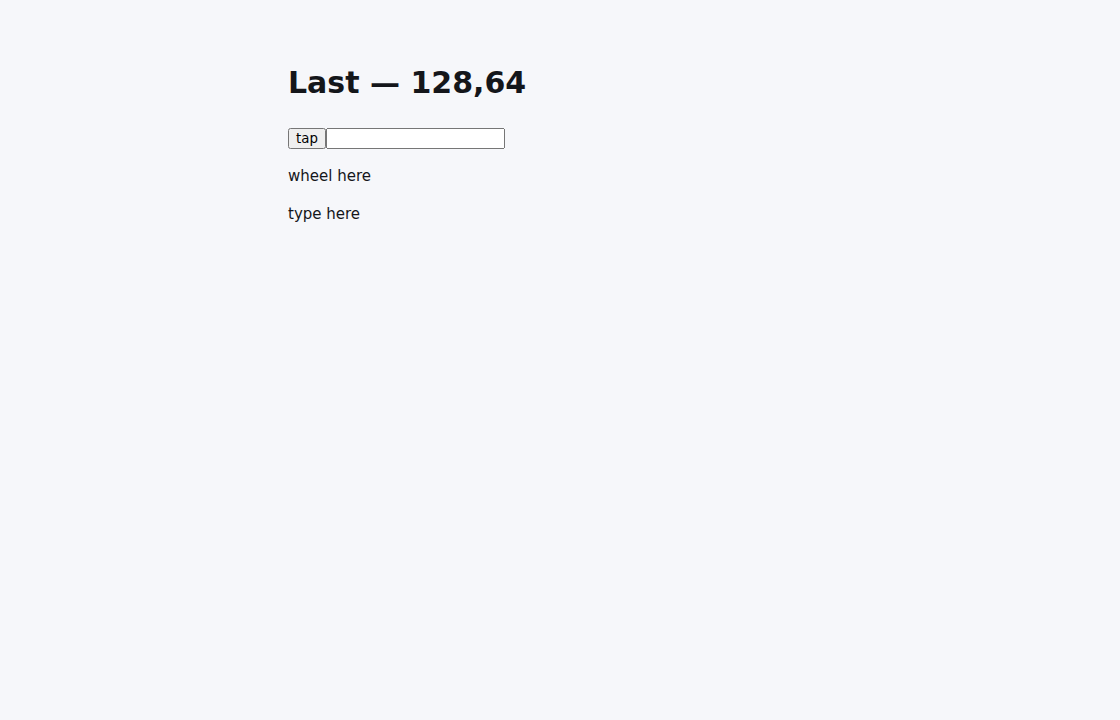
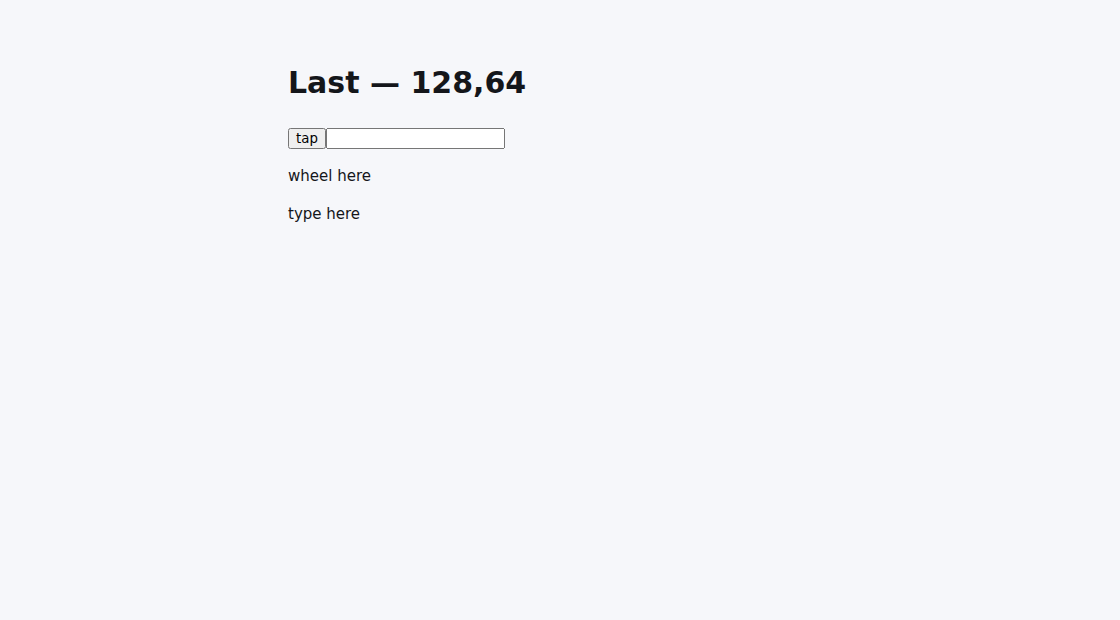
The captures were cropped, and the ones he saw were the old ones
Two separate faults, and the second is why the first was invisible to me.

**A viewport screenshot crops.** `--screenshot` takes the window, so every component taller than the window
lost its bottom — and there is no full-page flag on the command line. The page reports its own
`scrollHeight` into its `<title>` now, a first pass reads it, and the shot is taken at that height. Cart needs
644px; the rest fit the 620px floor, which exists so the strip does not jump between a 200px slide and a 900px
one.

**And the check that proves it is not a dimension comparison.** Heights can agree and the picture still be cut,
so `bottomIsClear` decodes each PNG and requires its last twelve rows to be one flat colour — the page keeps
padding below the component, so ink down there means something was lost. That asks the picture rather than the
arithmetic.

**Then: image URLs carried no version.** A PNG keeps its filename when it is retaken, so Andre was looking at
the previous 720×470 captures, which genuinely were cropped, while the new ones sat on the server. My
cache-busting had covered stylesheets and scripts and stopped there — so the guard now covers `_includes` as
well as `_layouts`, and `.png` and `.svg` as well as `.css` and `.js`.

It found two more the moment I widened it: the landing page's own showcase screenshot, and the Burxt lockup in
the bar. Both are the same class — **an artefact whose URL does not change when its content does** — and both
[…]

Changed region(s): [[0.25, 0.1839, 0.4375, 0.3065], [0.25, 0.0919, 0.4688, 0.1532], [0.25, 0.3371, 0.3125, 0.3677]]

diff --git a/docs/_includes/gallery.html b/docs/_includes/gallery.html
@@ -32,7 +32,12 @@
   <div class="shelf-track" data-shelf-track tabindex="0">
   <section class="shelf-slide" id="shelf-todos" aria-label="Todos, 1 of 16">
     <figure class="shelf-shot">
-      <img src="{{ site.baseurl }}/assets/gallery/todos.png" width="1120" height="720"
+      <!-- Versioned like the stylesheets, and for the same reason: a PNG keeps its filename when it is
+           retaken, so a reader holds the PREVIOUS capture until the cache expires. Andre reported the
+           captures as cropped after they had been retaken — the ones he was looking at were the old
+           720x470 shots, which genuinely were cut off. -->
+      <img src="{{ site.baseurl }}/assets/gallery/todos.png?v={{ site.time | date: '%s' }}"
+           width="1120" height="620"
            loading="eager" alt="Todos.sbmx running in a browser">
     </figure>
     <figure class="shelf-code">
@@ -70,7 +75,12 @@
   </section>
   <section class="shelf-slide" id="shelf-form" aria-label="Form, 2 of 16">
     <figure class="shelf-shot">
-      <img src="{{ site.baseurl }}/assets/gallery/form.png" width="1120" height="720"
+      <!-- Versioned like the stylesheets, and for the same reason: a PNG keeps its filename when it is
+           retaken, so a reader holds the PREVIOUS capture until the cache expires. Andre reported the
+           captures as cropped after they had been retaken — the ones he was looking at were the old
+           720x470 shots, which genuinely were cut off. -->
+      <img src="{{ site.baseurl }}/assets/gallery/form.png?v={{ site.time | date: '%s' }}"
+           width="1120" height="620"
            loading="eager" alt="Form.sbmx running in a browser">
     </figure>
     <figure class="shelf-code">
@@ -106,7 +116,12 @@
   </section>
   <section class="shelf-slide" id="shelf-hero" aria-label="Hero, 3 of 16">
     <figure class="shelf-shot">
-      <img src="{{ site.baseurl }}/assets/gallery/hero.png" width="1120" height="720"
+      <!-- Versioned like the stylesheets, and for the same reason: a PNG keeps its filename when it is
+           retaken, so a reader holds the PREVIOUS capture until the cache expires. Andre reported the
+           captures as cropped after they had been retaken — the ones he was looking at were the old
+           720x470 shots, which genuinely were cut off. -->
+      <img src="{{ site.baseurl }}/assets/gallery/hero.png?v={{ site.time | date: '%s' }}"
+           width="1120" height="620"
            loading="lazy" alt="Hero.sbmx running in a browser">
     </figure>
     <figure class="shelf-code">
@@ -131,7 +146,12 @@
   </section>
   <section class="shelf-slide" id="shelf-showcase" aria-label="Showcase, 4 of 16">
     <figure class="shelf-shot">
-      <img src="{{ site.baseurl }}/assets/gallery/showcase.png" width="1120" height="720"
+      <!-- Versioned like the stylesheets, and for the same reason: a PNG keeps its filename when it is
+           retaken, so a reader holds the PREVIOUS capture until the cache expires. Andre reported the
+           captures as cropped after they had been retaken — the ones he was looking at were the old
+           720x470 shots, which genuinely were cut off. -->
+      <img src="{{ site.baseurl }}/assets/gallery/showcase.png?v={{ site.time | date: '%s' }}"
+           width="1120" height="620"
            loading="lazy" alt="Showcase.sbmx running in a browser">
     </figure>
     <figure class="shelf-code">
@@ -229,7 +249,12 @@ Clear done
   </section>
   <section class="shelf-slide" id="shelf-served" aria-label="Served, 5 of 16">
     <figure class="shelf-shot">
-      <img src="{{ site.baseurl }}/assets/gallery/served.png" width="1120" height="720"
+      <!-- Versioned like the stylesheets, and for the same reason: a PNG keeps its filename when it is
+           retaken, so a reader holds the PREVIOUS capture until the cache expires. Andre reported the
+           captures as cropped after they had been retaken — the ones he was looking at were the old
+           720x470 shots, which genuinely were cut off. -->
+      <img src="{{ site.baseurl }}/assets/gallery/served.png?v={{ site.time | date: '%s' }}"
+           width="1120" height="620"
            loading="lazy" alt="Served.sbmx running in a browser">
     </figure>
     <figure class="shelf-code">
@@ -254,7 +279,12 @@ clear
   </section>
   <section class="shelf-slide" id="shelf-feed" aria-label="Feed, 6 of 16">
     <figure class="shelf-shot">
-      <img src="{{ site.baseurl }}/assets/gallery/feed.png" width="1120" height="720"
+      <!-- Versioned like the stylesheets, and for the same reason: a PNG keeps its filename when it is
+           retaken, so a reader holds the PREVIOUS capture until the cache expires. Andre reported the
+           captures as cropped after they had been retaken — the ones he was looking at were the old
+           720x470 shots, which genuinely were cut off. -->
+      <img src="{{ site.baseurl }}/assets/gallery/feed.png?v={{ site.time | date: '%s' }}"
+           width="1120" height="620"
            loading="lazy" alt="Feed.sbmx running in a browser">
     </figure>
     <figure class="shelf-code">
@@ -279,7 +309,12 @@ toggle polling
   </section>
   <section class="shelf-slide" id="shelf-poster" aria-label="Poster, 7 of 16">
     <figure class="shelf-shot">
-      <img src="{{ site.baseurl }}/assets/gallery/poster.png" width="1120" height="720"
+      <!-- Versioned like the stylesheets, and for the same reason: a PNG keeps its filename when it is
+           retaken, so a reader holds the PREVIOUS capture until the cache expires. Andre reported the
+           captures as cropped after they had been retaken — the ones he was looking at were the old
+           720x470 shots, which genuinely were cut off. -->
+      <img src="{{ site.baseurl }}/assets/gallery/poster.png?v={{ site.time | date: '%s' }}"
+           width="1120" height="620"
            loading="lazy" alt="Poster.sbmx running in a browser">
     </figure>
     <figure class="shelf-code">
@@ -300,7 +335,12 @@ save
   </section>
   <section class="shelf-slide" id="shelf-echo" aria-label="Echo, 8 of 16">
     <figure class="shelf-shot">
-      <img src="{{ site.baseurl }}/assets/gallery/echo.png" width="1120" height="720"
+      <!-- Versioned like the stylesheets, and for the same reason: a PNG keeps its filename when it is
+           retaken, so a reader holds the PREVIOUS capture until the cache expires. Andre reported the
+           captures as cropped after they had been retaken — the ones he was looking at were the old
+           720x470 shots, which genuinely were cut off. -->
+      <img src="{{ site.baseurl }}/assets/gallery/echo.png?v={{ site.time | date: '%s' }}"
+           width="1120" height="620"
            loading="lazy" alt="Echo.sbmx running in a browser">
     </figure>
     <figure class="shelf-code">
@@ -332,7 +372,12 @@ type here
   </section>
   <section class="shelf-slide" id="shelf-rows" aria-label="Rows, 9 of 16">
     <figure class="shelf-shot">
-      <img src="{{ site.baseurl }}/assets/gallery/rows.png" width="1120" height="720"
+      <!-- Versioned like the stylesheets, and for the same reason: a PNG keeps its filename when it is
+           retaken, so a reader holds the PREVIOUS capture until the cache expires. Andre reported the
+           captures as cropped after they had been retaken — the ones he was looking at were the old
+           720x470 shots, which genuinely were cut off. -->
+      <img src="{{ site.baseurl }}/assets/gallery/rows.png?v={{ site.time | date: '%s' }}"
+           width="1120" height="620"
            loading="lazy" alt="Rows.sbmx running in a browser">
     </figure>
     <figure class="shelf-code">
@@ -369,7 +414,12 @@ type here
   </section>
   <section class="shelf-slide" id="shelf-grid" aria-label="Grid, 10 of 16">
     <figure class="shelf-shot">
-      <img src="{{ site.baseurl }}/assets/gallery/grid.png" width="1120" height="720"
+      <!-- Versioned like the stylesheets, and for the same reason: a PNG keeps its filename when it is
+           retaken, so a reader holds the PREVIOUS capture until the cache expires. Andre reported the
+           captures as cropped after they had been retaken — the ones he was looking at were the old
+           720x470 shots, which genuinely were cut off. -->
+      <img src="{{ site.baseurl }}/assets/gallery/grid.png?v={{ site.time | date: '%s' }}"
+           width="1120" height="620"
            loading="lazy" alt="Grid.sbmx running in a browser">
     </figure>
     <figure class="shelf-code">
@@ -406,7 +456,12 @@ type here
   </section>
   <section class="shelf-slide" id="shelf-choices" aria-label="Choices, 11 of 16">
     <figure class="shelf-shot">
-      <img src="{{ site.baseurl }}/assets/gallery/choices.png" width="1120" height="720"
+      <!-- Versioned like the stylesheets, and for the same reason: a PNG keeps its filename when it is
+           retaken, so a reader holds the PREVIOUS capture until the cache expires. Andre reported the
+           captures as cropped after they had been retaken — the ones he was looking at were the old
+           720x470 shots, which genuinely were cut off. -->
+      <img src="{{ site.baseurl }}/assets/gallery/choices.png?v={{ site.time | date: '%s' }}"
+           width="1120" height="620"
            loading="lazy" alt="Choices.sbmx running in a browser">
     </figure>
     <figure class="shelf-code">
@@ -467,7 +522,12 @@ type here
   </section>
   <section class="shelf-slide" id="shelf-notes" aria-label="Notes, 12 of 16">
     <figure class="shelf-shot">
-      <img src="{{ site.baseurl }}/assets/gallery/notes.png" width="1120" height="720"
+      <!-- Versioned like the stylesheets, and for the same reason: a PNG keeps its filename when it is
+           retaken, so a reader holds the PREVIOUS capture until the cache expires. Andre reported the
+           captures as cropped after they had been retaken — the ones he was looking at were the old
+           720x470 shots, which genuinely were cut off. -->
+      <img src="{{ site.baseurl }}/assets/gallery/notes.png?v={{ site.time | date: '%s' }}"
+           width="1120" height="620"
            loading="lazy" alt="Notes.sbmx running in a browser">
     </figure>
     <figure class="shelf-code">
@@ -506,7 +566,12 @@ type here
   </section>
   <section class="shelf-slide" id="shelf-clock" aria-label="Clock, 13 of 16">
     <figure class="shelf-shot">
-      <img src="{{ site.baseurl }}/assets/gallery/clock.png" width="1120" height="720"
+      <!-- Versioned like the stylesheets, and for the same reason: a PNG keeps its filename when it is
+           retaken, so a reader holds the PREVIOUS capture until the cache expires. Andre reported the
+           captures as cropped after they had been retaken — the ones he was looking at were the old
+           720x470 shots, which genuinely were cut off. -->
+      <img src="{{ site.baseurl }}/assets/gallery/clock.png?v={{ site.time | date: '%s' }}"
+           width="1120" height="620"
            loading="lazy" alt="Clock.sbmx running in a browser">
     </figure>
     <figure class="shelf-code">
@@ -539,7 +604,12 @@ type here
   </section>
   <section class="shelf-slide" id="shelf-snake" aria-label="Snake, 14 of 16">
     <figure class="shelf-shot">
-      <img src="{{ site.baseurl }}/assets/gallery/snake.png" width="1120" height="720"
+      <!-- Versioned like the stylesheets, and for the same reason: a PNG keeps its filename when it is
+           retaken, so a reader holds the PREVIOUS capture until the cache expires. Andre reported the
+           captures as cropped after they had been retaken — the ones he was looking at were the old
+           720x470 shots, which genuinely were cut off. -->
+      <img src="{{ site.baseurl }}/assets/gallery/snake.png?v={{ site.time | date: '%s' }}"
+           width="1120" height="620"
            loading="lazy" alt="Snake.sbmx running in a browser">
     </figure>
     <figure class="shelf-code">
@@ -577,7 +647,12 @@ type here
   </section>
   <section class="shelf-slide" id="shelf-cart" aria-label="Cart, 15 of 16">
     <figure class="shelf-shot">
-      <img src="{{ site.baseurl }}/assets/gallery/cart.png" width="1120" height="720"
+      <!-- Versioned like the stylesheets, and for the same reason: a PNG keeps its filename when it is
+           retaken, so a reader holds the PREVIOUS capture until the cache expires. Andre reported the
+           captures as cropped after they had been retaken — the ones he was looking at were the old
+           720x470 shots, which genuinely were cut off. -->
+      <img src="{{ site.baseurl }}/assets/gallery/cart.png?v={{ site.time | date: '%s' }}"
+           width="1120" height="644"
            loading="lazy" alt="Cart.sbmx running in a browser">
     </figure>
     <figure class="shelf-code">
@@ -631,7 +706,12 @@ type here
   </section>
   <section class="shelf-slide" id="shelf-board" aria-label="Board, 16 of 16">
     <figure class="shelf-shot">
-      <img src="{{ site.baseurl }}/assets/gallery/board.png" width="1120" height="720"
+      <!-- Versioned like the stylesheets, and for the same reason: a PNG keeps its filename when it is
+           retaken, so a reader holds the PREVIOUS capture until the cache expires. Andre reported the
+           captures as cropped after they had been retaken — the ones he was looking at were the old
+           720x470 shots, which genuinely were cut off. -->
+      <img src="{{ site.baseurl }}/assets/gallery/board.png?v={{ site.time | date: '%s' }}"
+           width="1120" height="620"
            loading="lazy" alt="Board.sbmx running in a browser">
     </figure>
     <figure class="shelf-code">

diff --git a/docs/_layouts/default.html b/docs/_layouts/default.html
@@ -50,7 +50,7 @@
        three, and they line up on the letter they have in common. Which is the whole branding decision
        rather than a number that looked right: they guessed 15, then 19, then 24, and Andre rejected each. -->
   <a class="mark" href="{{ site.baseurl }}/">
-    <img src="{{ site.baseurl }}/assets/brand/starb_logo_transparent.svg" alt="star-burxt">
+    <img src="{{ site.baseurl }}/assets/brand/starb_logo_transparent.svg?v={{ v }}" alt="star-burxt">
   </a>
 
 
@@ -92,7 +92,7 @@
          wordmark with icon like you have on burxt navbar." The lockup is already 100% ink, so it needs no
          crop, and 22px puts its `b` at the same height as the mark on the left. -->
     <a class="burxt" href="https://burxt-lang.org">
-      <img src="{{ site.baseurl }}/assets/brand/burxt-lockup-light.png" alt="Burxt" width="1311" height="360">
+      <img src="{{ site.baseurl }}/assets/brand/burxt-lockup-light.png?v={{ v }}" alt="Burxt" width="1311" height="360">
     </a>
   </span>
 </nav>

diff --git a/docs/_includes/showcase.html b/docs/_includes/showcase.html
@@ -6,7 +6,7 @@
       <span class="url">today.example</span>
     </div>
     <div class="glass">
-      <img src="{{ site.baseurl }}/assets/showcase.png" alt="A task list rendered by star-burxt: a
+      <img src="{{ site.baseurl }}/assets/showcase.png?v={{ site.time | date: '%s' }}" alt="A task list rendered by star-burxt: a
            heading, a count, and five rows with checkboxes, two of them completed." width="416"
            height="329" loading="eager" decoding="async">
     </div>

diff --git a/tools/showcase.py b/tools/showcase.py
@@ -70,7 +70,7 @@ SHOWCASE = """<!-- GENERATED by tools/showcase.py from examples/Hero.sbmx. Do no
       <span class="url">today.example</span>
     </div>
     <div class="glass">
-      <img src="{{ site.baseurl }}/assets/showcase.png" alt="A task list rendered by star-burxt: a
+      <img src="{{ site.baseurl }}/assets/showcase.png?v={{ site.time | date: '%s' }}" alt="A task list rendered by star-burxt: a
            heading, a count, and five rows with checkboxes, two of them completed." width="__WIDTH__"
            height="__HEIGHT__" loading="eager" decoding="async">
     </div>

diff --git a/docs/index.md b/docs/index.md
@@ -5,7 +5,7 @@ description: "Write a page in Markdown. Get a real front-end app. star-burxt tur
 ---
 
 <p class="lockup">
-  <img src="{{ site.baseurl }}/assets/brand/starb_logo_transparent.svg"
+  <img src="{{ site.baseurl }}/assets/brand/starb_logo_transparent.svg?v={{ site.time | date: '%s' }}"
        alt="star-burxt" width="319" height="97">
 </p>
 
